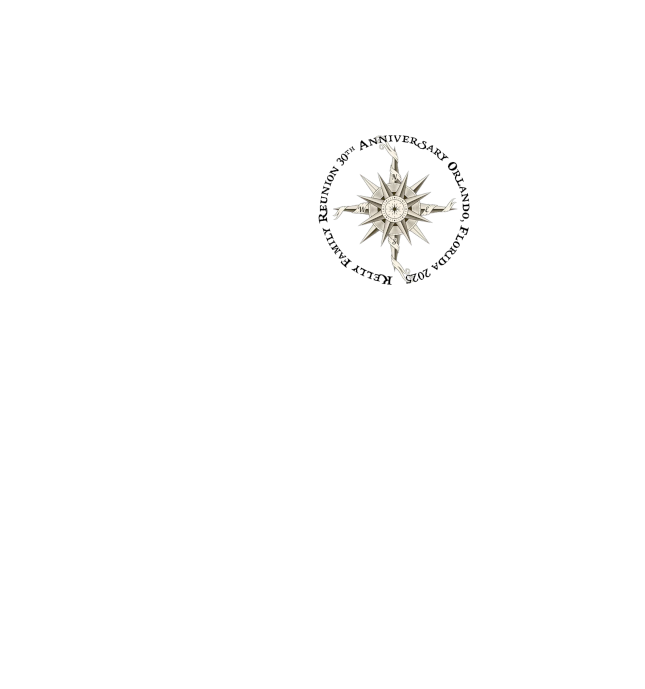
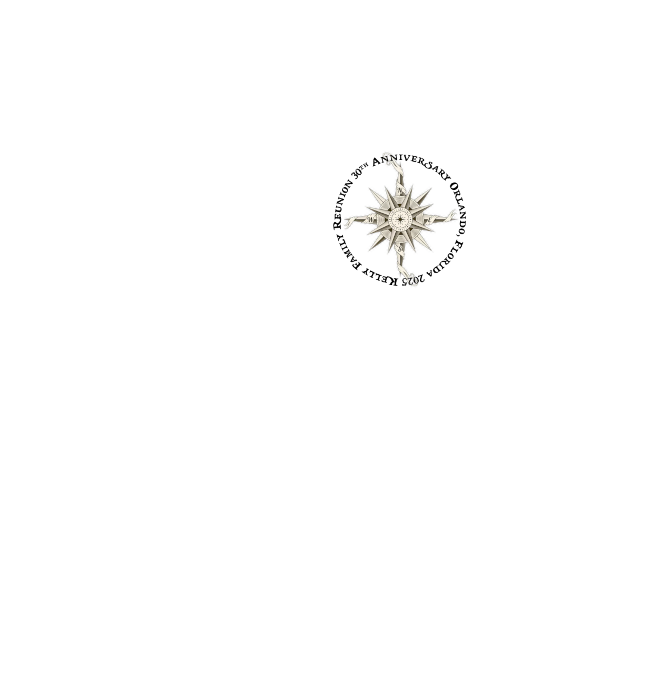
feat: add light font versions of the front designs
add a dropdown menu to select them
for readability

Changed region(s): [[0.4961, 0.1829, 0.7442, 0.4267]]

diff --git a/index.html b/index.html
@@ -16,27 +16,46 @@
     </div>
     <button id="toggleView">Show Back</button>
     <div class="dropdown">
+        <select id="designSelectLight">
+            <option value="steampunk-badge-light.png">Light Fonts</option>
+            <option value="steampunk-badge-light.png">Steampunk Compass</option>
+            <option value="steampunk-large-light.png">Steampunk Large</option>
+            <option value="30-green-badge-light.png">Green 30th Anniversary</option>
+            <option value="30-green-large-light.png">Green 30th Large</option>
+            <option value="30-vect0r-badge-light.png">Vector 30th Anniversary</option>
+            <option value="30-vect0r-large-light.png">Vector 30th Large</option>
+            <option value="cartoon-30-light.png">Cartoon Map 30th</option>
+            <option value="cartoon-light.png">Cartoon Map</option>
+            <option value="drawn-badge-light.png">Drawn Compass</option>
+            <option value="drawn-large-light.png">Drawn Compass Large</option>
+            <option value="old-pin-front-light.png">Old Map</option>
+            <option value="stay-salty-badge-light.png">Stay Salty</option>
+            <option value="stay-salty-large-light.png">Stay Salty Large</option>
+            <option value="vector-compass-badge-light.png">Vector Compass</option>
+            <option value="vector-compass-large-light.png">Vector Compass Large</option>
+            <option value="wreath-badge-light.png">Wreath</option>
+            <option value="wreath-large-light.png">Wreath Large</option>
+        </select>
         <select id ="designSelectFront">
             <option value="Steampunk-round-badge.png">Front Designs</option>
-            <option value="Steampunk-round-badge.png">Steampunk Compass Badge</option>
-            <option value="30-green-badge.png">30th Green Badge</option>
-            <option value="Drawn-round-badge.png">Illustrated Compass Badge</option>
-            <option value="line-round-badge.png">Vector Compass Badge</option>
-            <option value="lines-badge.png">30th Vector Badge</option>
+            <option value="Steampunk-round-badge.png">Steampunk Compass</option>
+            <option value="30-green-badge.png">Green 30th Anniversary</option>
+            <option value="Drawn-round-badge.png">Drawn Compass</option>
+            <option value="line-round-badge.png">Vector Compass</option>
+            <option value="lines-badge.png">Vector 30th Anniversary</option>
             <option value="pride-badge.png">Pride Badge</option>
-            <option value="stay-salty-badge.png">Stay Salty Badge</option>
-            <option value="wreath-badge.png">30th Wreath Badge</option>
+            <option value="stay-salty-badge.png">Stay Salty</option>
+            <option value="wreath-badge.png">Wreath</option>
             <option value="Steampunk-round-large.png">Steampunk Large</option>
-            <option value="30-green-large.png">30th Green Large</option>
-            <option value="Drawn-round-large.png">Illustrated Compass Large</option>
+            <option value="30-green-large.png">Green 30th Large</option>
+            <option value="Drawn-round-large.png">Drawn Compass Large</option>
             <option value="line-round-large.png">Vector Compass Large</option>
-            <option value="lines-large.png">30th Vector Large</option>
+            <option value="lines-large.png">Vector 30th Large</option>
             <option value="stay-salty-large.png">Stay Salty Large</option>
-            <option value="wreath-large.png">30th Wreath Large</option>
+            <option value="wreath-large.png">Wreath Large</option>
             <option value="cartoon-front-anniversary.png">Cartoon Map</option>
             <option value="cartoon-front-overlay.png">Cartoon 30th Map</option>
-            <option value="old-flag-front.png">Old Map with Flags</option>
-            <option value="old-pin-front.png">Old Map with Pins</option>
+            <option value="old-pin-front.png">Old Map</option>
         </select>
         <select id ="designSelectBack">
             <option value="Cartoon-pride.png">Back Designs</option>

diff --git a/main.js b/main.js
@@ -1,10 +1,15 @@
 const designSelectFront = document.getElementById("designSelectFront");
 const designSelectBack = document.getElementById("designSelectBack");
+const designSelectLight = document.getElementById("designSelectLight")
 const shirtBase = document.getElementById("shirtBase");
 const designOverlay = document.getElementById("designOverlay");
 const buttons = document.querySelectorAll(".shirt-button");
 const shirtLabel = document.getElementById("shirtLabel");
-const frontImages = ["Steampunk-round-badge.png","30-green-badge.png","Drawn-round-badge.png","line-round-badge.png","lines-badge.png","pride-badge.png","stay-salty-badge.png","wreath-badge.png","Steampunk-round-large.png","30-green-large.png","Drawn-round-large.png","line-round-large.png","lines-large.png","stay-salty-large.png","wreath-large.png","cartoon-front-anniversary.png","cartoon-front-overlay.png","old-flag-front.png","old-pin-front.png"]
+const frontImages = ["Steampunk-round-badge.png","30-green-badge.png","Drawn-round-badge.png","line-round-badge.png","lines-badge.png","pride-badge.png","stay-salty-badge.png","wreath-badge.png","Steampunk-round-large.png",
+                    "30-green-large.png","Drawn-round-large.png","line-round-large.png","lines-large.png","stay-salty-large.png","wreath-large.png","cartoon-front-anniversary.png","cartoon-front-overlay.png","old-pin-front.png",
+                    "steampunk-badge-light.png", "steampunk-large-light.png","30-green-badge-light.png","30-green-large-light.png","30-vect0r-badge-light.png","30-vect0r-large-light.png","cartoon-30-light.png","cartoon-light.png",
+                    "drawn-badge-light.png","drawn-large-light.png","old-pin-front-light.png","stay-salty-badge-light.png","stay-salty-large-light.png","vector-compass-badge-light.png","vector-compass-large-light.png",
+                    "wreath-badge-light.png","wreath-large-light.png",]
 const backImages = ["Cartoon-pride.png","Cartoon-Red-Pins.png","cartoon-stars.png","Old-Map-Flags.png","Old-Map-Pins.png","pride-map-pins.png"]
 
 //Main Button Functions
@@ -17,10 +22,12 @@ const toggleBtn = document.getElementById("toggleView")
 window.addEventListener("load", () => {
     // Reset both dropdowns to first option
     document.getElementById("designSelectFront").selectedIndex = 0;
-    document.getElementById("designSelectBack").selectedIndex = 0;  
+    document.getElementById("designSelectBack").selectedIndex = 0;
+    document.getElementById("designSelectLight").selectedIndex = 0;   
     // Set initial design based on default selector
     if (isFront) {
         currentDesign = document.getElementById("designSelectFront").value;
+        currentDesign = document.getElementById("designSelectLight").value;
     } else {
         currentDesign = document.getElementById("designSelectBack").value;
     }
@@ -45,11 +52,13 @@ toggleBtn.addEventListener("click", () => {
 
 function updateDesignSelectorVisibility() {
     if(isFront) {
-        designSelectFront.style.display = "block";
+        designSelectFront.style.display = "inline-block";
         designSelectBack.style.display = "none";
+        designSelectLight.style.display = "inline-block";
     } else {
         designSelectFront.style.display = "none"
         designSelectBack.style.display = "block"
+        designSelectLight.style.display = "none";
     }
 }
 function updateShirtImage() {
@@ -73,6 +82,11 @@ buttons.forEach(button => {
 
 designSelectFront.addEventListener("change", () => {
     currentDesign = designSelectFront.value;
+    if (isFront) updateDesignImage();
+})
+
+designSelectLight.addEventListener("change", () => {
+    currentDesign = designSelectLight.value;
     if (isFront) updateDesignImage();
 })
 

diff --git a/styles.css b/styles.css
@@ -102,10 +102,17 @@ button {
     margin-top: 30px;
 }
 
-#designSelectFront,
-#designSelectBack {
+#designSelectLight {
     color: white;
     background-color: black;
+    text-align: center;
+    font-weight: bold;
+}
+
+#designSelectFront,
+#designSelectBack {
+    color: black;
+    background-color: beige;
     text-align: center;
     font-weight: bold;
 }
